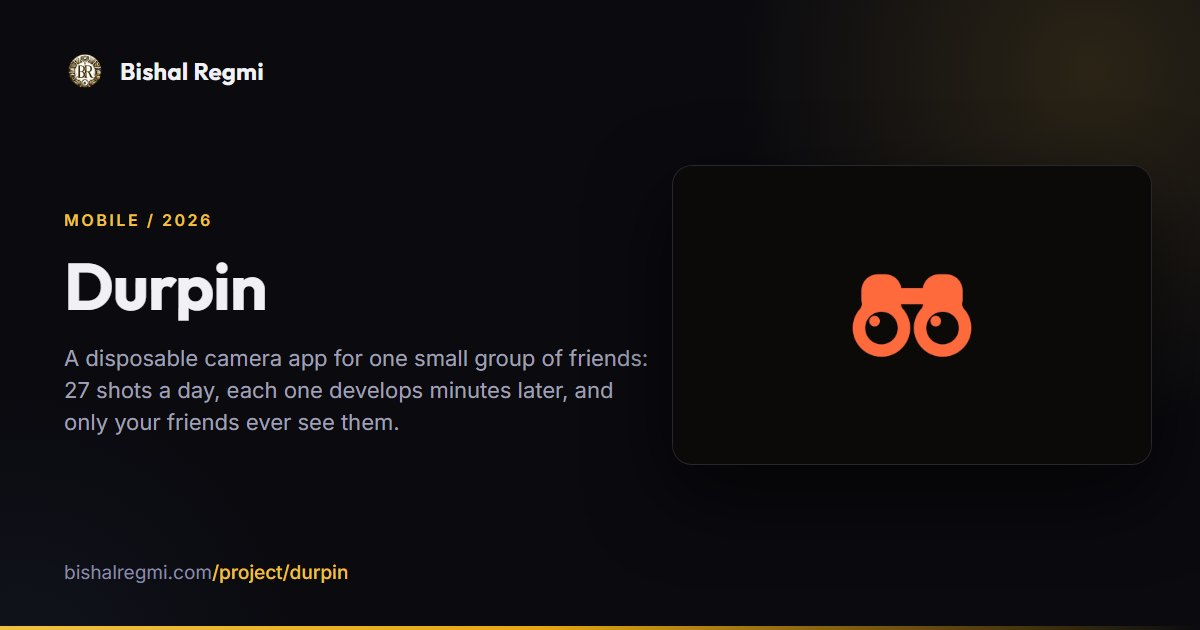
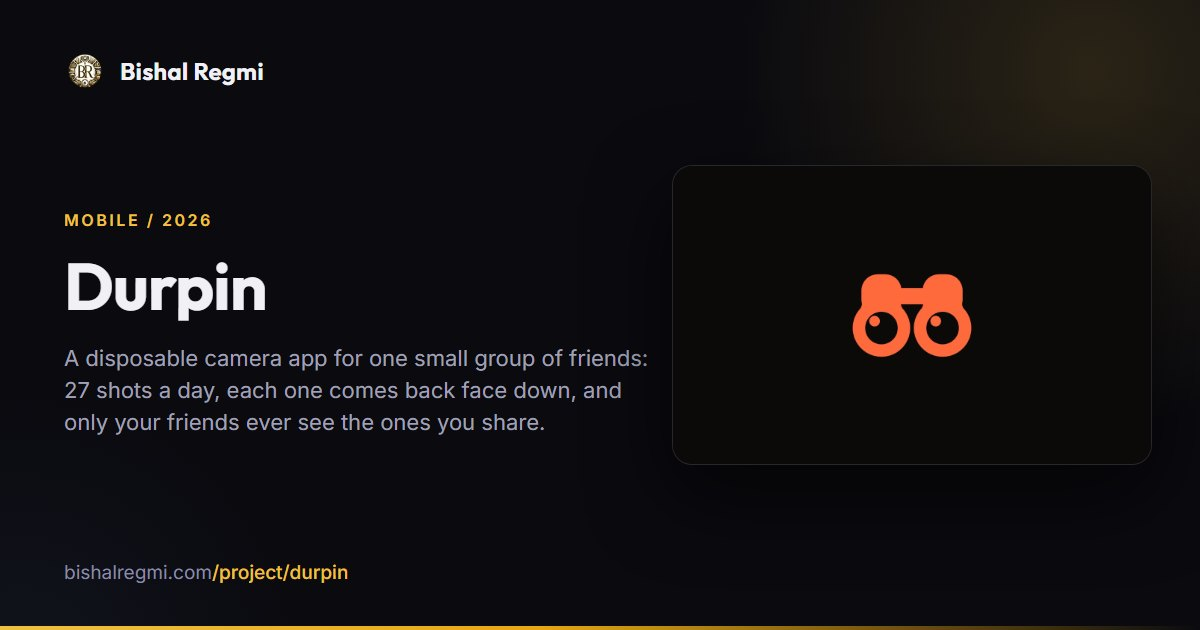
Describe the Durpin reveal now that shots arrive face down (#132)

Changed region(s): [[0.2775, 0.6032, 0.5242, 0.6333], [0.3083, 0.6635, 0.4625, 0.6937]]

diff --git a/src/app/data/projects.ts b/src/app/data/projects.ts
@@ -307,9 +307,9 @@ const PROJECT_DEFINITIONS: Project[] = [
     id: 'durpin',
     title: 'Durpin',
     shortDescription:
-      'A disposable camera app for one small group of friends: 27 shots a day, each one develops minutes later, and only your friends ever see them.',
+      'A disposable camera app for one small group of friends: 27 shots a day, each one comes back face down, and only your friends ever see the ones you share.',
     description:
-      "Durpin is a disposable camera for a small group of friends. You get 27 shots a day with no preview, no retakes and no zoom, and each shot develops 5 to 20 minutes later, face down, ready to share with friends, keep private or toss. There are no like counts, no strangers and no ads: friends send a heart or a vibe and nobody keeps score, comments stay between friends, and each friend's day is a single card that opens at the shots you have not seen yet. Invites are a favor rather than a toll: you hold five open invites at a time, and a slot frees up when one is used or expires after a week. The design keeps what made similar apps last, a real wait before the reveal, and avoids what sank them, growth tricks and the cost of storing everyone's photos. The app is built with Expo and React Native in TypeScript, shoots through VisionCamera and renders its films on the phone, and it talks to a fully self-hosted Supabase backend behind Cloudflare, where Postgres row-level security and server-side timers keep the rules honest. Durpin is a work in progress: new test builds ship often, it is in private, invite-only testing with a small group of friends on Android and on iPhone through TestFlight, and it is not in the app stores.",
+      "Durpin is a disposable camera for a small group of friends. You get 27 shots a day with no preview, no retakes and no zoom. Each shot comes back face down in your Darkroom; turn it over to share it, keep it private, or toss it. There are no like counts, no strangers and no ads: friends send a heart or a vibe and nobody keeps score, comments stay between friends, and each friend's day is a single card that opens at the shots you have not seen yet. Invites are a favor rather than a toll: you hold five open invites at a time, and a slot frees up when one is used or expires after a week. The design keeps what made similar apps last, a reveal you cannot skip, and avoids what sank them, growth tricks and the cost of storing everyone's photos. The app is built with Expo and React Native in TypeScript, shoots through VisionCamera and renders its films on the phone, and it talks to a fully self-hosted Supabase backend behind Cloudflare, where Postgres row-level security and server-side checks keep the rules honest. Durpin is a work in progress: new test builds ship often, it is in private, invite-only testing with a small group of friends on Android and on iPhone through TestFlight, and it is not in the app stores.",
     tags: ['React Native', 'Expo', 'TypeScript', 'Supabase', 'PostgreSQL'],
     category: 'Mobile',
     type: 'product',
@@ -321,13 +321,13 @@ const PROJECT_DEFINITIONS: Project[] = [
     status: 'in-progress',
     statusLabel: 'Work in progress',
     highlights: [
-      'The server decides when each shot develops and holds it until then, so nobody can peek early, not even with a modified app',
+      'The reveal is enforced on the server: shots on your own roll come back face down and friends only ever see the ones you share, so not even a modified app can peek',
       'Rules enforced on the server and hardened after a self-audit: row-level security on every table, tested as a matrix of who can see what, privileged helper functions kept off the public API, rate limits at the gateway, and deletes that really remove the files',
       'Four films, Sunday, Linen, Afterparty and Silver, built from generated 3D LUTs with a guard that keeps skin tones natural and applied the same way to photos (React Native Skia) and to video clips (native Kotlin and Swift); you can switch film any time during the day on the same 27 shots',
       'A VisionCamera-based camera with an ultra-wide lens switch on the front and back where the phone has one, full-resolution photos, tall 9:16 clips of up to 8 seconds, flash in photo and clip modes, and the volume buttons as a shutter',
       'Hearts with a "Liked by" list but no counts, comments with likes and one level of replies, a stories-style viewer that taps through every friend, an activity bell for likes, comments, replies, friend requests and joins, and push notifications',
       'Finding friends without giving up an address book: contact matching is opt-in and hashed on the phone, nothing about your contacts is kept, and friends can also connect through a QR friend link or an @username search',
-      'Shared rolls a group shoots together for an event, a journal that fills itself, a monthly recap and a shot from a year ago today; photos can be exported and truly deleted',
+      'Shared rolls that work as a live album for an event, where everyone on the roll sees each shot as it comes in and gets a note when the roll is done, plus a journal that fills itself, a monthly recap and a shot from a year ago today; photos can be exported and truly deleted',
       'Never lose a shot: photos wait on the phone until they upload. Frequent test builds with a secret scan before every publish, source maps for readable crash reports, and an in-app update notice for sideloaded Android builds',
       'Fully self-hosted Supabase (Postgres, auth, realtime, storage) on home hardware, reached only through a Cloudflare Tunnel and kept current through rehearsed, timed upgrades with a rollback plan, with self-hosted error tracking, uptime checks, a private members dashboard and nightly encrypted backups',
     ],
